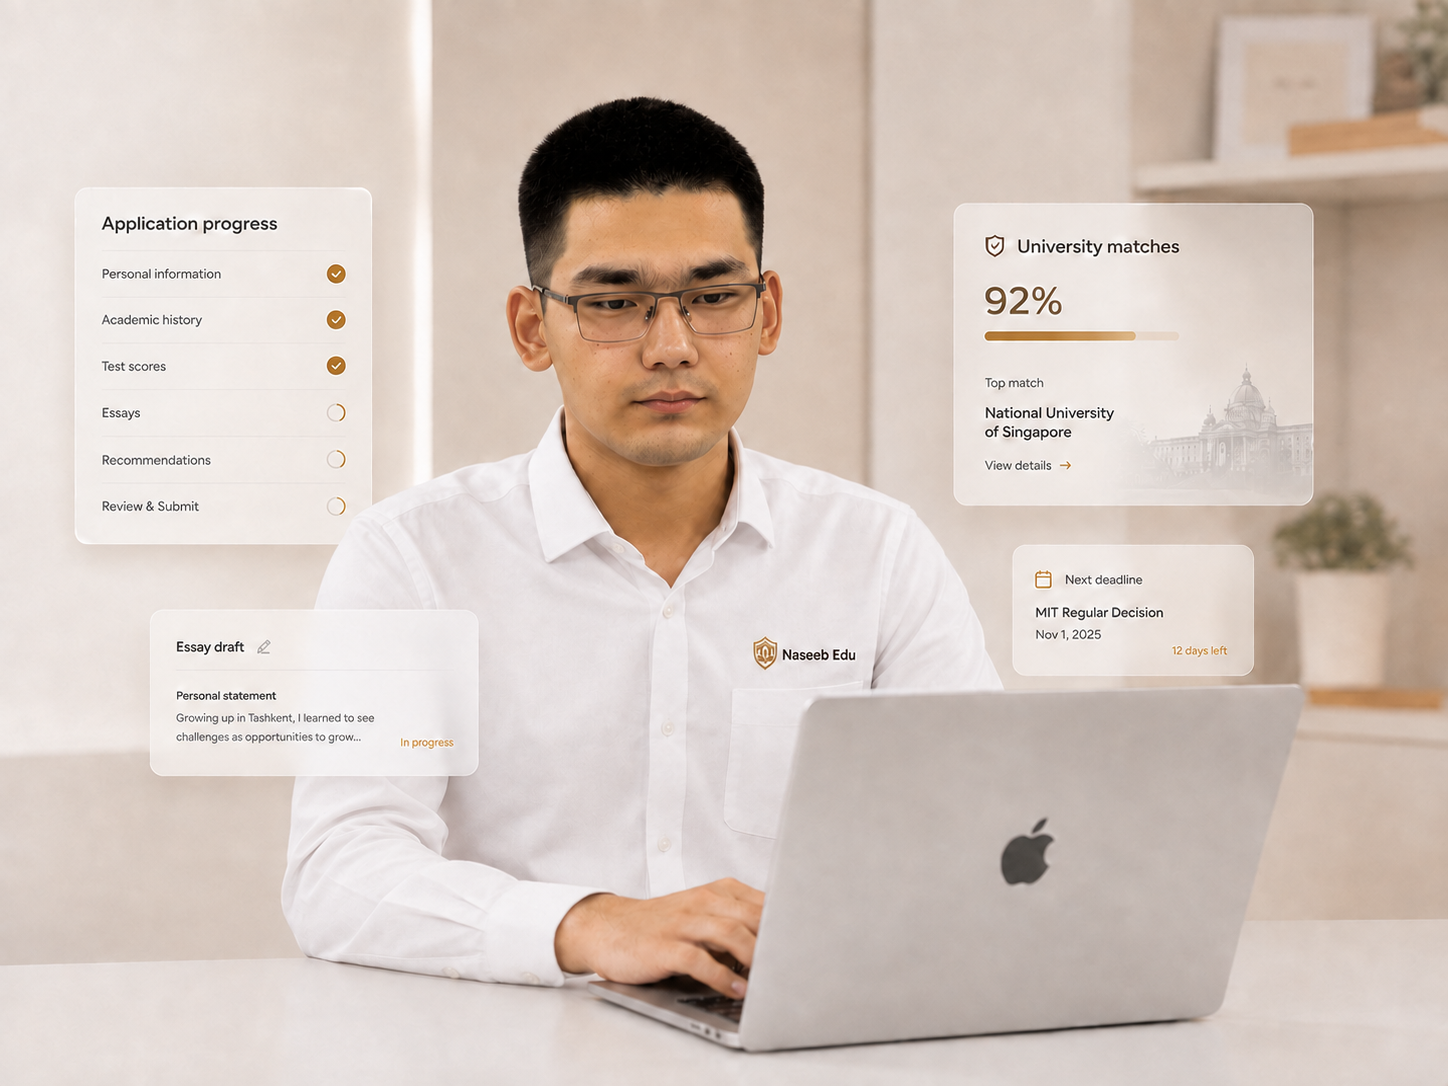
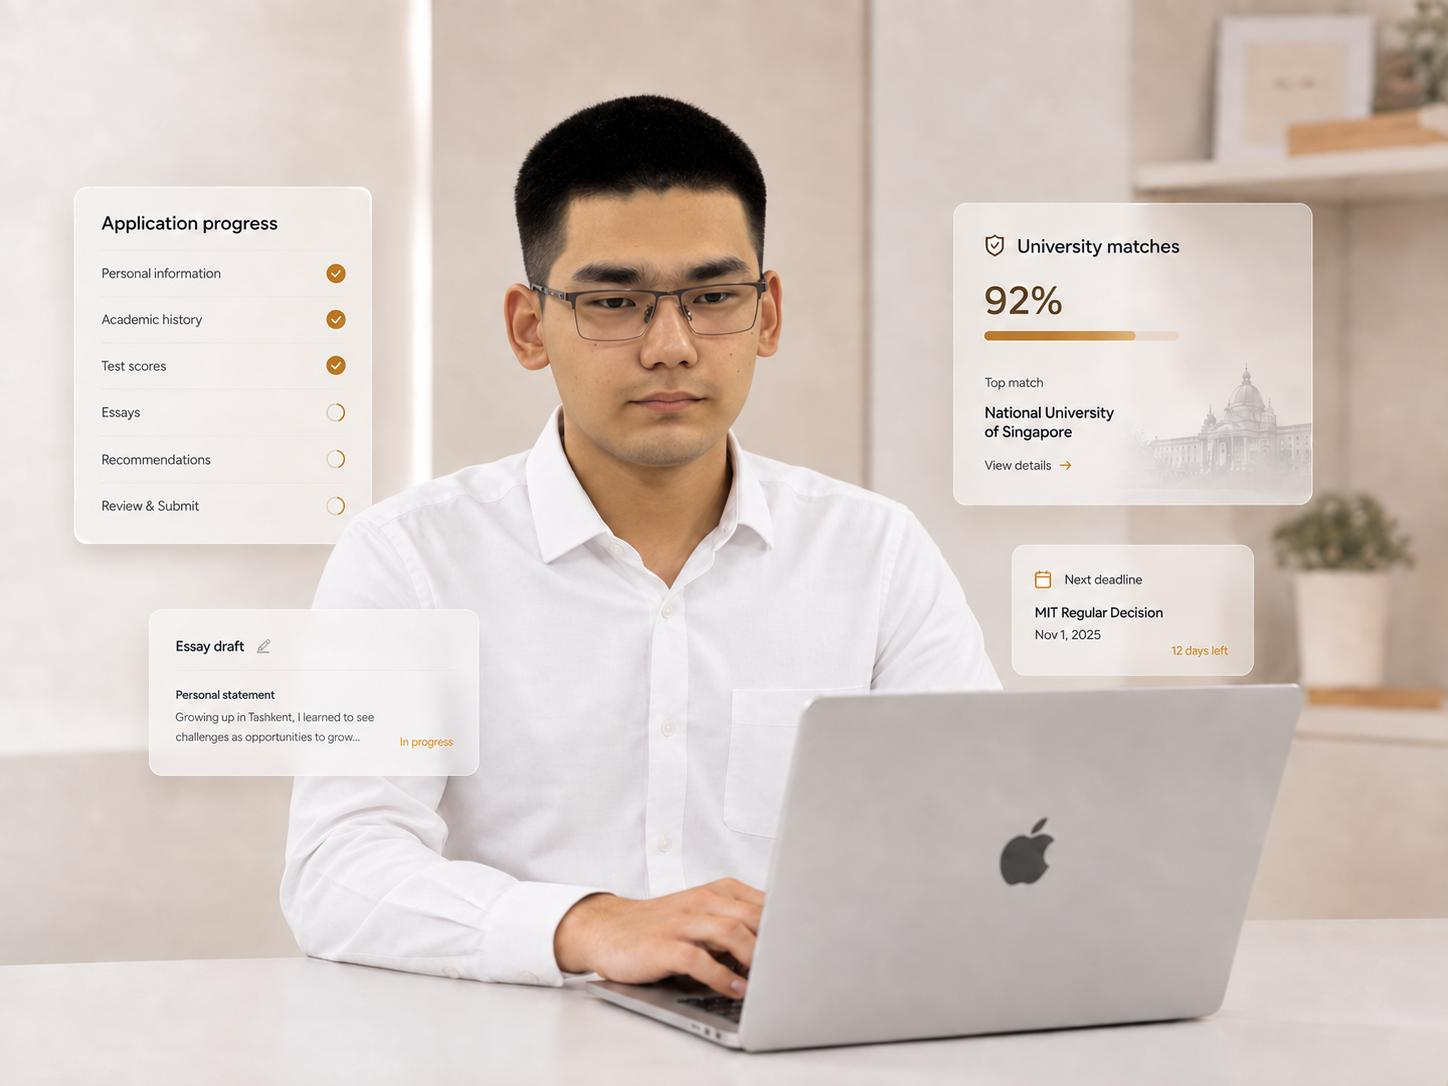
feat: update landing page

diff --git a/frontend/src/mind-section.css b/frontend/src/mind-section.css
@@ -1,0 +1,63 @@
+/* A self-contained editorial feature inside the existing landing page. */
+.landing-mind {
+  --mind-surface: #eeebe4;
+  --mind-ink: #352f27;
+  --mind-muted: #655c50;
+  --mind-accent: #7d5c29;
+  --mind-line: #d5ccbc;
+  padding-block: clamp(40px, 6vw, 88px);
+  scroll-margin-top: 125px;
+}
+[data-theme='dark'] .landing-mind {
+  --mind-surface: #202d35;
+  --mind-ink: #f3ede2;
+  --mind-muted: #c3beb4;
+  --mind-accent: #e2bd7b;
+  --mind-line: #4a4b46;
+}
+.landing-mind-panel { display: grid; grid-template-columns: 1.15fr 1fr; overflow: hidden; border: 1px solid var(--mind-line); border-radius: 24px; background: var(--mind-surface); color: var(--mind-ink); }
+.landing-mind-copy { padding: clamp(28px, 4vw, 56px); align-self: center; }
+.landing-mind-brand { display: flex; align-items: center; gap: 12px; font-size: 21px; letter-spacing: -.04em; margin: 0 0 32px; }
+.landing-mind-brand b { color: var(--mind-accent); }
+.landing-mind-brand b { font-weight: 600; }
+.landing-mind h2 { max-width: 560px; font-size: clamp(28px, 3vw, 43px); line-height: 1.16; letter-spacing: -.045em; font-weight: 500; margin: 0; text-wrap: balance; }
+.landing-mind h2 span { display: block; margin-top: 5px; color: var(--mind-accent); }
+.landing-mind-description { max-width: 460px; color: var(--mind-muted); font-size: 14px; line-height: 1.85; margin: 24px 0; }
+.landing-mind .landing-mind-cta { display: inline-flex; align-items: center; justify-content: center; gap: 24px; min-height: 52px; padding: 15px 22px; border-radius: 10px; background: #403526; color: #fffaf1; font-size: 13px; font-weight: 600; text-decoration: none; transition: transform .2s ease, box-shadow .2s ease; }
+[data-theme='dark'] .landing-mind .landing-mind-cta { background: #e2bd7b; color: #252820; }
+.landing-mind-cta:hover { transform: translateY(-3px); box-shadow: 0 8px 20px #0002; }
+.landing-mind-cta:focus-visible { outline: 2px solid var(--mind-accent); outline-offset: 5px; }
+.landing-mind-art { margin: 0; min-width: 0; position: relative; }
+.landing-mind-art img { display: block; width: 100%; height: 100%; object-fit: cover; object-position: 60% center; }
+.landing-mind-facts { grid-column: 1 / -1; margin: 0; display: grid; grid-template-columns: repeat(3, minmax(0, 1fr)); padding: 26px 40px; border-top: 1px solid var(--mind-line); }
+.landing-mind-facts > div { display: flex; align-items: center; justify-content: center; gap: 18px; }
+.landing-mind-facts > div + div { border-left: 1px solid var(--mind-line); }
+.landing-mind-facts dt { font-size: 32px; line-height: 1.1; font-weight: 500; letter-spacing: -.04em; }
+.landing-mind-facts dt span { color: var(--mind-accent); }
+.landing-mind-facts dd { margin: 0; max-width: 110px; font-size: 11px; color: var(--mind-muted); line-height: 1.6; }
+@media (prefers-reduced-motion: no-preference) { html:has(.landing-page) { scroll-behavior: smooth; } }
+@media (max-width: 1000px) {
+  .landing-mind { scroll-margin-top: 145px; }
+  .landing-mind-panel { grid-template-columns: 1.2fr 1fr; }
+  .landing-mind-copy { padding: 28px; }
+  .landing-mind-facts { padding: 24px; }
+  .landing-mind-facts > div { gap: 12px; }
+}
+@media (max-width: 640px) {
+  .landing-mind .lp-shell { width: calc(100% - 32px); }
+  .landing-mind-panel { grid-template-columns: 1fr; border-radius: 20px; }
+  .landing-mind-copy { padding: 28px 24px 32px; }
+  .landing-mind-brand { font-size: 20px; margin-bottom: 24px; }
+  .landing-mind h2 { font-size: clamp(27px, 6.8vw, 38px); }
+  .landing-mind-description { font-size: 13px; margin-block: 20px; }
+  .landing-mind-art { aspect-ratio: 1.5; }
+  .landing-mind-art img { object-position: center; }
+  .landing-mind-facts { padding: 22px 12px; }
+  .landing-mind-facts > div { flex-direction: column; text-align: center; gap: 8px; padding-inline: 5px; }
+  .landing-mind-facts dt { font-size: 24px; }
+  .landing-mind-facts dd { font-size: 9px; }
+}
+@media (prefers-reduced-motion: reduce) { .landing-mind-cta { transition: none; } }
+
+.landing-mind-logo { display: block; width: 32px; height: 48px; object-fit: contain; flex-shrink: 0; }
+[data-theme='dark'] .landing-mind-logo { filter: brightness(0) invert(1); }

diff --git a/frontend/src/MindSection.jsx b/frontend/src/MindSection.jsx
@@ -1,0 +1,62 @@
+import { ArrowUpRight } from 'lucide-react';
+import './mind-section.css';
+
+const CONTENT = {
+  uz: {
+    heading: ["Qiziqishlaringiz", "haqida bilib oling!"],
+    description:
+      "Kuchli tomonlaringizni aniqlang va shunga mos yo‘nalishni toping.",
+    cta: "Sinab ko‘ring",
+    time: "daqiqa",
+    types: "xil obrazlar",
+    free: "Test",
+    access: "Mutlaqo Bepul",
+    art: "O‘zini anglashni ifodalovchi oltin shisha va oq qatlamlardan tashkil topgan inson profili",
+  },
+  en: {
+    heading: ["Learn about", "your interests!"],
+    description:
+      "Identify your strengths and find a direction that matches them.",
+    cta: "Find your personality",
+    time: "minutes",
+    types: "distinct personalities",
+    free: "Free",
+    access: "personality test",
+    art: "A layered ivory and amber glass profile representing self-discovery",
+  },
+  ru: {
+    heading: ["Узнайте больше", "о своих интересах!"],
+    description:
+      "Определите свои сильные стороны и найдите подходящее направление.",
+    cta: "Попробовать",
+    time: "минут",
+    types: "типов личности",
+    free: "Тест",
+    access: "абсолютно бесплатный",
+    art: "Многослойный профиль из слоновой кости и янтарного стекла, символ самопознания",
+  },
+};
+
+export default function MindSection({ language }) {
+  const copy = CONTENT[language] || CONTENT.uz;
+  return (
+    <section className="landing-mind" id="naseeb-mind" aria-labelledby="naseeb-mind-title">
+      <div className="lp-shell">
+        <div className="landing-mind-panel" data-reveal>
+          <div className="landing-mind-copy">
+            <p className="landing-mind-brand"><img className="landing-mind-logo" src="/brand/naseeb-mind-logo.png" alt="" width="32" height="48" loading="lazy" decoding="async" /><span>Naseeb <b>Mind</b></span></p>
+            <h2 id="naseeb-mind-title">{copy.heading[0]}<span>{copy.heading[1]}</span></h2>
+            <p className="landing-mind-description">{copy.description}</p>
+            <a className="landing-mind-cta" href="https://personality.naseebedu.com">{copy.cta}<ArrowUpRight size={20} aria-hidden="true" /></a>
+          </div>
+          <figure className="landing-mind-art"><img src="/landing/mind-self-discovery.webp" alt={copy.art} width="1536" height="1024" loading="lazy" decoding="async" /></figure>
+          <dl className="landing-mind-facts">
+            <div><dt>15</dt><dd>{copy.time}</dd></div>
+            <div><dt>10</dt><dd>{copy.types}</dd></div>
+            <div><dt>{copy.free}</dt><dd>{copy.access}</dd></div>
+          </dl>
+        </div>
+      </div>
+    </section>
+  );
+}

diff --git a/frontend/src/LandingPage.jsx b/frontend/src/LandingPage.jsx
@@ -28,6 +28,7 @@ import {
   StudentDashboardPreview,
 } from "./LandingDashboardPreviews";
 import HeroParticleNetwork from "./HeroParticleNetwork";
+import MindSection from "./MindSection";
 import useStoryMarquee from "./useStoryMarquee";
 import { deferSvgImages } from "./deferSvgImages";
 import "./landing.css";
@@ -709,7 +710,7 @@ export default function LandingPage({
     const steps = [...page.querySelectorAll(".landing-path-list li")];
     const groups = [...page.querySelectorAll("[data-reveal]")];
     const nav = page.querySelector(".landing-nav");
-    const navLinks = [...page.querySelectorAll(".landing-nav nav a")];
+    const navLinks = [...page.querySelectorAll('.landing-nav nav a[href^="#"]')];
     const navTargets = navLinks.map((link) =>
       page.querySelector(link.getAttribute("href")),
     );
@@ -805,6 +806,7 @@ export default function LandingPage({
           <nav aria-label={t("Landing navigation")}>
             <a href="#journey">{t("Journey")}</a>
             <a href="#platform">{t("Platform")}</a>
+            <a className="landing-mind-link" href="#naseeb-mind">Naseeb Mind</a>
             <a href="#about">{t("About us")}</a>
             {hasReviews && <a href="#reviews">{t("Stories")}</a>}
             <a href="#faq">{t("FAQ")}</a>
@@ -1097,6 +1099,8 @@ export default function LandingPage({
             </div>
           </div>
         </section>
+
+        <MindSection language={language} />
 
         <section className="landing-band landing-about" id="about">
           <div className="lp-shell landing-about-grid">

diff --git a/frontend/src/landing.css b/frontend/src/landing.css
@@ -1745,3 +1745,18 @@
 @media (max-width: 380px) {
   .landing-preview-tools { display: none; }
 }
+
+/* Naseeb Mind section navigation, available in both navigation layouts. */
+.landing-nav nav .landing-mind-link { display: inline-flex; align-items: center; gap: 6px; white-space: nowrap; color: var(--lp-signal); font-weight: 650; }
+@media (min-width: 821px) and (max-width: 1200px) {
+  .landing-nav > .lp-shell { grid-template-columns: auto 1fr auto; gap: 12px; }
+  .landing-nav nav { gap: 13px; }
+  .landing-nav nav a { font-size: 12px; white-space: nowrap; }
+  .landing-brand .brand-lockup b { font-size: 14px; }
+}
+@media (min-width: 821px) and (max-width: 1000px) {
+  .landing-page { --lp-nav-h: 104px; }
+  .landing-nav > .lp-shell { grid-template-columns: minmax(0, 1fr) auto; row-gap: 8px; border-radius: var(--lp-r-lg); }
+  .landing-nav nav { grid-column: 1 / -1; grid-row: 2; justify-content: center; gap: 24px; }
+  .landing-nav nav a { min-height: 40px; display: inline-flex; align-items: center; }
+}

diff --git a/docs/design/naseeb-mind-artwork.md b/docs/design/naseeb-mind-artwork.md
@@ -1,0 +1,15 @@
+# Naseeb Mind artwork
+
+Asset: `frontend/public/landing/mind-self-discovery.webp` (1536 × 1024).
+Created with the built-in image generation tool, then encoded as WebP for the website.
+
+## Generation prompt
+
+Create a premium editorial 3D artwork for Naseeb Mind, a personality exploration product for students. Landscape 3:2 composition, no text, no logos, no UI. A sculptural human head in profile facing right, made from translucent warm amber glass and matte ivory nested layers, like a gently opened dimensional contour map of the mind. Three offset profile layers create a sense of self-discovery. Beautiful realistic caustics, precise glass edges, sophisticated studio product photography. Main sculpture centered with generous breathing space, occupies 70% of frame. Background seamless very pale warm gray #f4f2ee, subtle studio shadows, soft directional sun from upper left. Restrained amber and cream monochrome palette. Museum-quality art direction, tactile materials, quiet optimistic mood, clean not sci-fi, not a brain illustration. Output high quality landscape image.
+
+## Mind logo
+
+Asset: `frontend/public/brand/naseeb-mind-logo.png`.
+Extracted from the user's mountain-background reference with the built-in image generation tool. Transparent PNG; displayed in navy on light backgrounds and white in dark mode.
+
+Prompt: Background extraction only. Extract the exact flat dark navy bird logo from the center of the supplied image. Preserve its identity and ALL silhouette geometry exactly: the three upward sweeping wing shapes, right-facing head and tiny eye opening, the flowing curved S-shaped lower tail and negative spaces. Remove the entire sky, mountains and sunset background. Do not redesign, restyle, embellish, add glow, shadow, text or gradients. Solid original dark navy #03194d logo on truly transparent background. Crop closely around the mark with only 5% transparent padding, portrait aspect ratio approximately 2:3, crisp antialiased edges. This is an existing brand logo extraction, not a new logo design.
